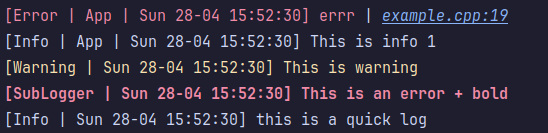
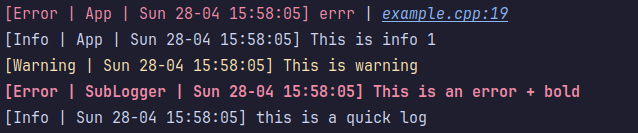
updated directory structure

diff --git a/include/coologger.hpp b/include/coologger.hpp
@@ -83,6 +83,7 @@ namespace Coolog{
             auto time = getCurrentTime("%a %d-%m %X");
             std::cout << Modifier::fromLogLevel(level, true);
             std::cout << "[";
+            std::cout << logLevelToStr(level) << " | ";
             if(!m_name.empty()) std::cout << m_name << " | ";
             std::cout << time << "] ";
             std::cout << std::vformat(message, std::make_format_args(args...));

diff --git a/example.cpp b/example.cpp
@@ -1,4 +1,4 @@
-#include "coologger.hpp"
+#include "include/coologger.hpp"
 
 Coolog::Logger mainLogger("App");
 
